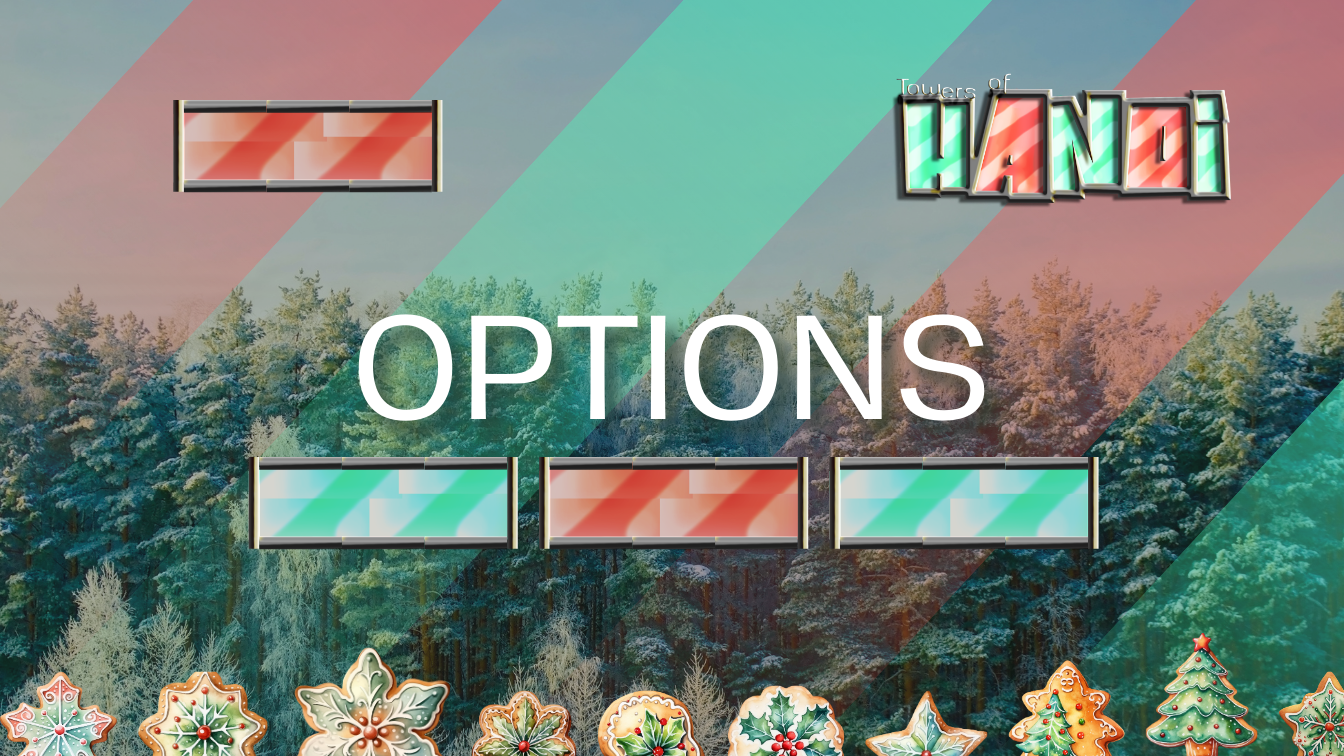
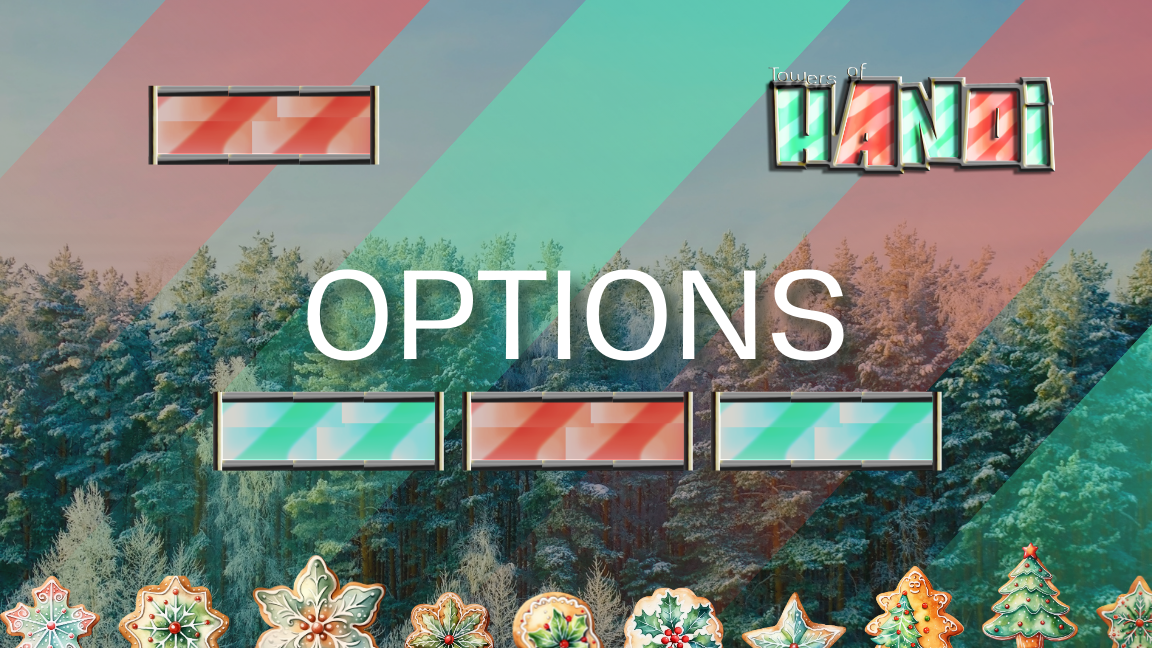
:)

diff --git a/src/Options.java b/src/Options.java
@@ -48,7 +48,6 @@ public class Options extends JFrame {
     public Options() {
 
         JLayeredPane pane = new JLayeredPane();
-        //Icon backgroundIcon = new ImageIcon("towersOfHanoi_optionsPage.png");
         ClassLoader classloader = Thread.currentThread().getContextClassLoader();
         URL url = classloader.getResource("towersOfHanoi_optionsPage.png");
         Icon backgroundIcon = new ImageIcon(url);
@@ -98,12 +97,12 @@ public class Options extends JFrame {
         Level6x6.setBounds(150,0,50,50);
         pane.add(Level6x6);
 
-        background.setBounds(0,0,1344,756);
+        background.setBounds(0,0,1152,648);
         pane.add(background,JLayeredPane.DEFAULT_LAYER);
 
         frame.setDefaultCloseOperation(WindowConstants.EXIT_ON_CLOSE);
         frame.add(pane);
-        frame.setSize(1344,776);
+        frame.setSize(1152,648);
         frame.setVisible(true);
     }
 }
